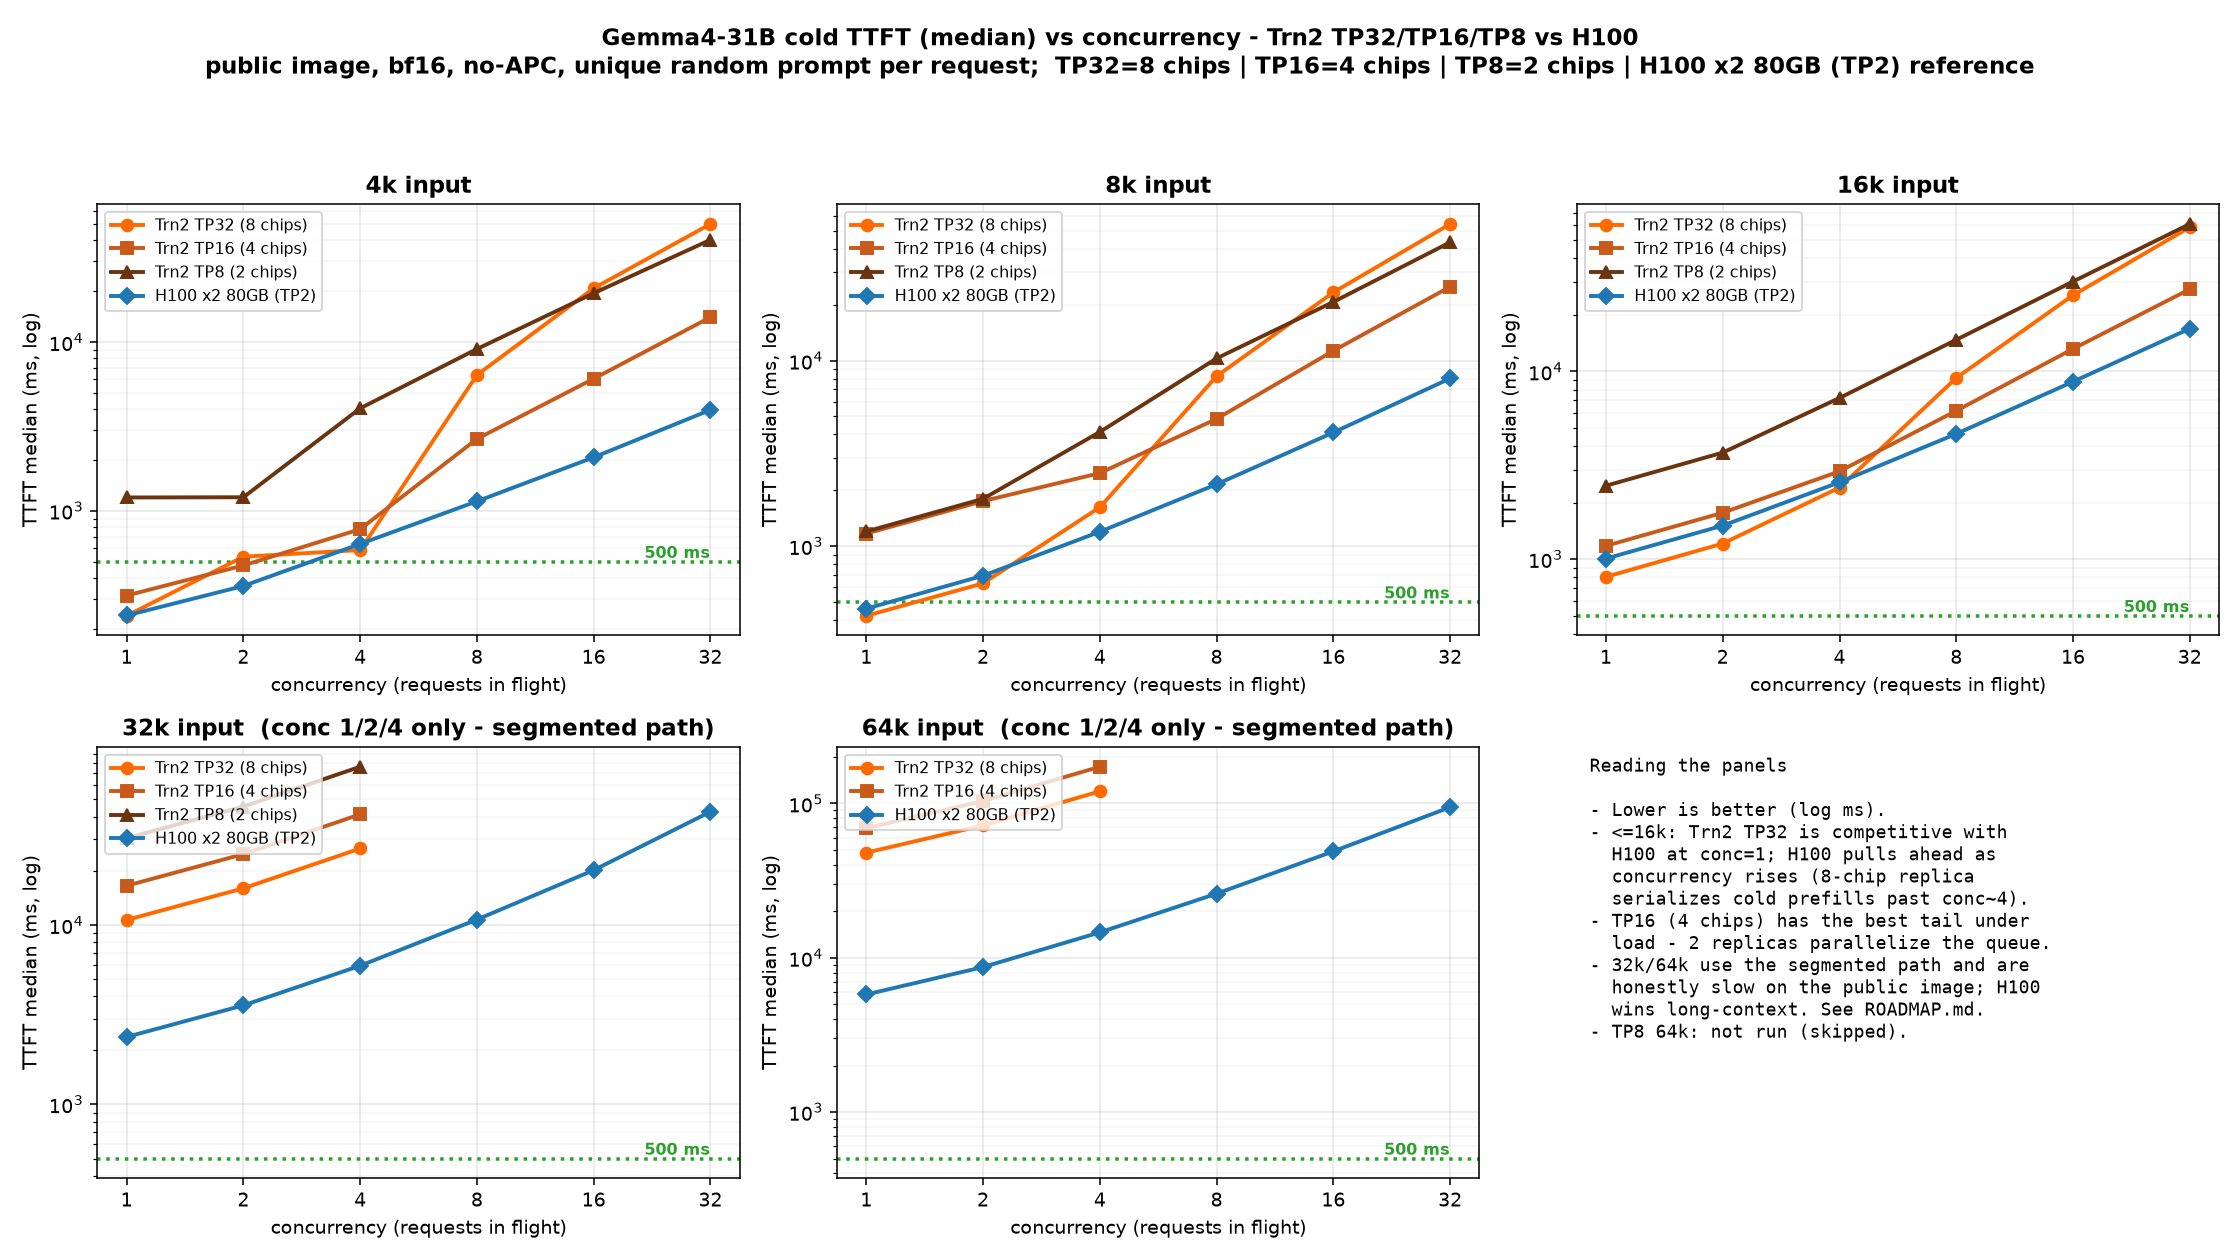
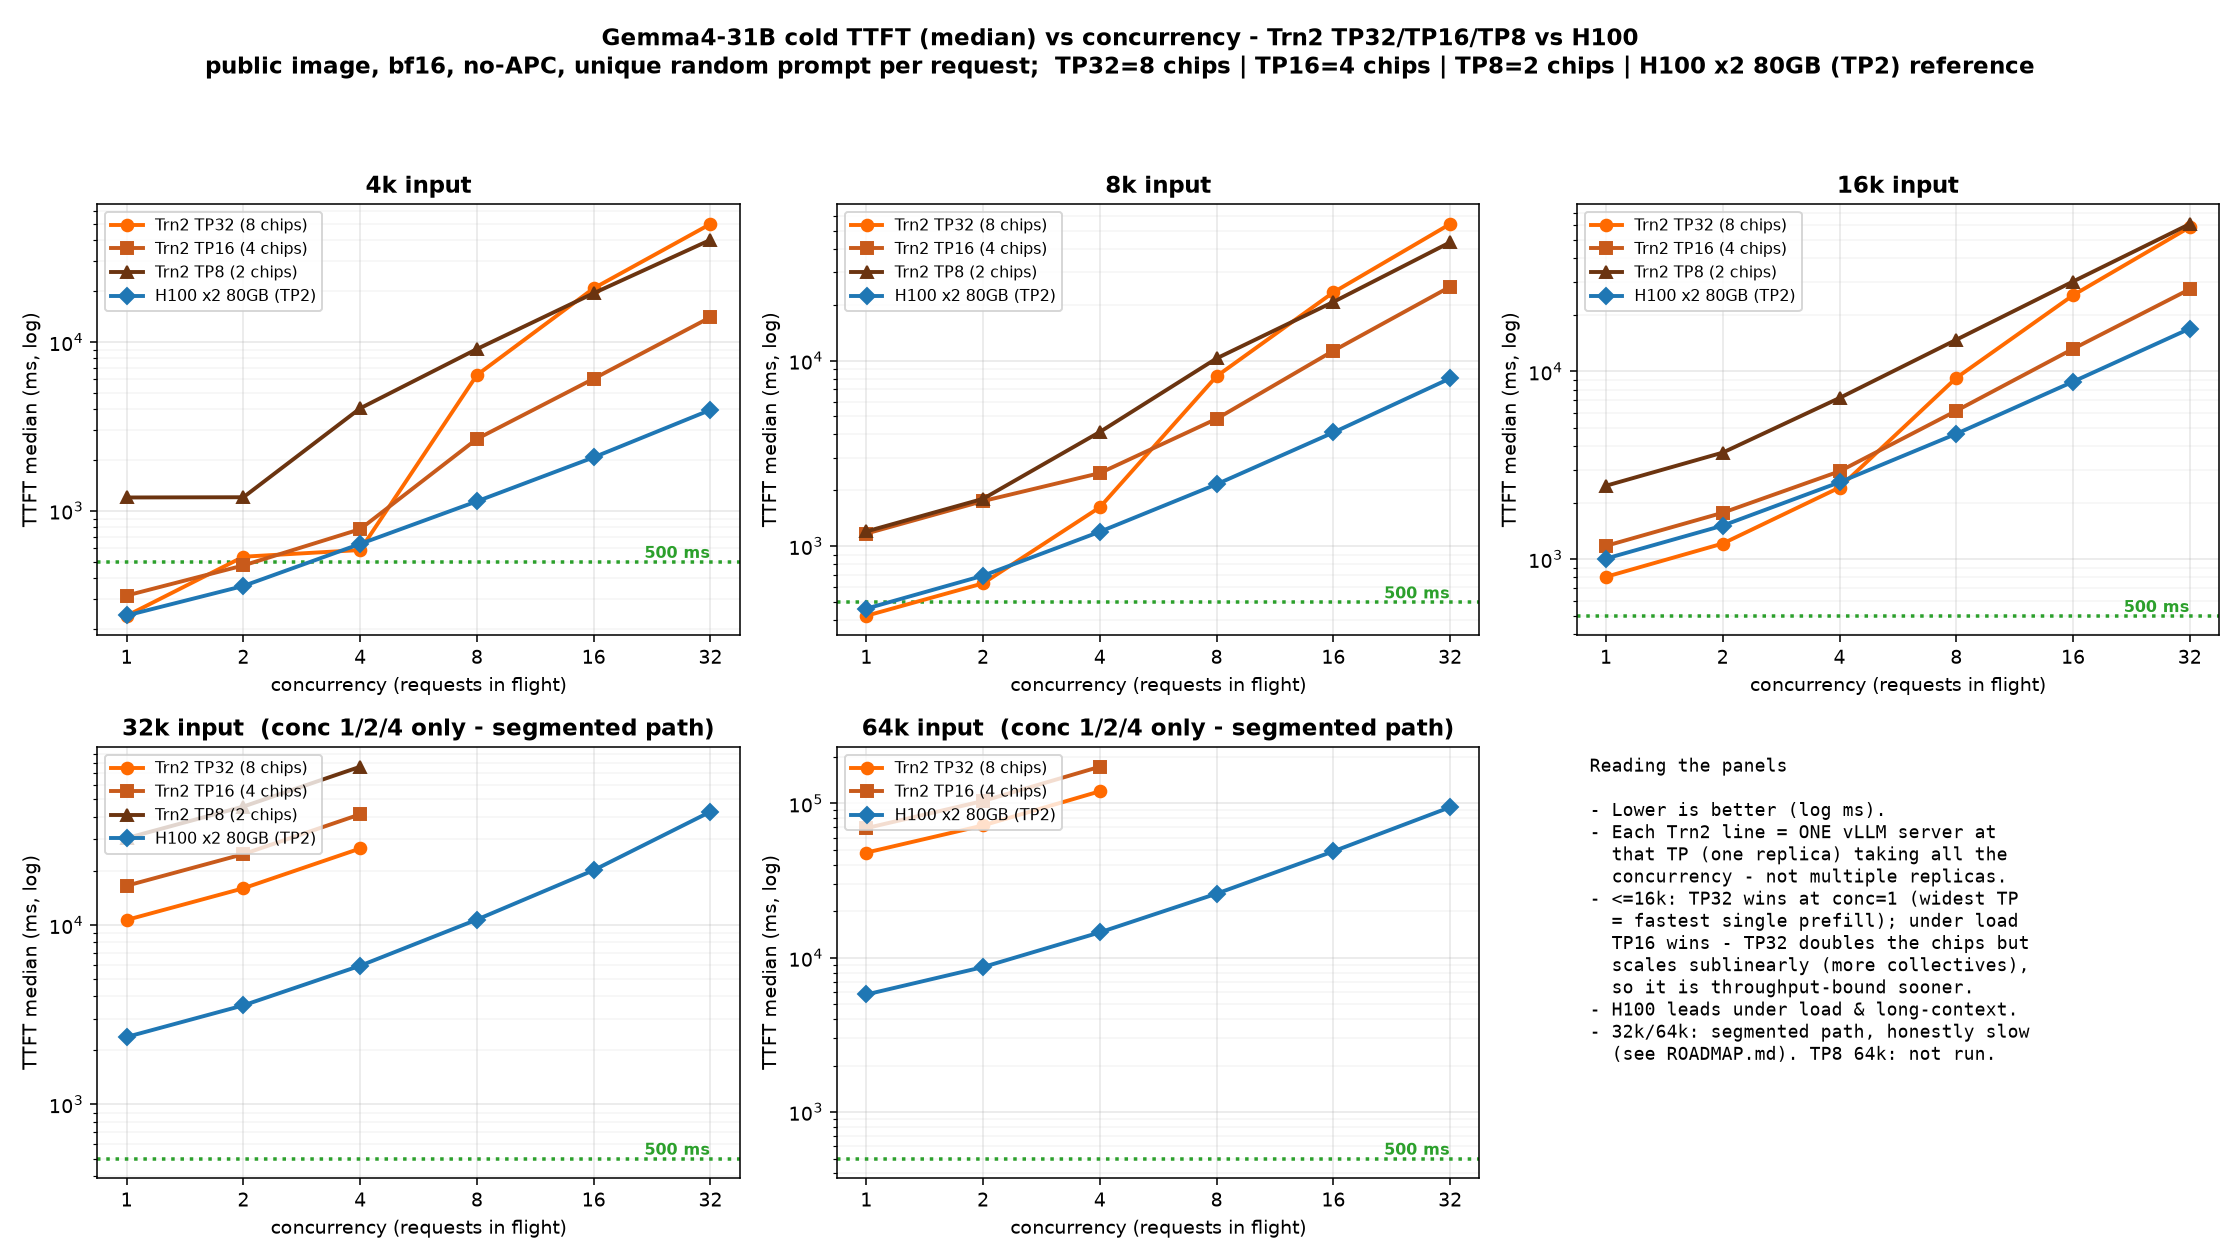
gemma4-31b/Public_Final: correct TP16-vs-TP32 explanation (single-server sublinear TP scaling, not replica parallelism)
The vs-concurrency chart captions and reading-panel attributed TP16's under-load win to '2 replicas parallelize the queue', but the shipped harness runs a single vllm serve per TP degree with all concurrency hitting one server. Rewrote the median + P99 captions, the 'What fits at each TP' note, and the chart reading-panel to the accurate reason: single server, TP32 wins conc=1 (widest TP = fastest single prefill), TP16 wins under load because TP32 scales sublinearly (more collective communication) and is throughput-bound sooner. Regenerated both PNGs. No measured numbers changed.

Changed region(s): [[0.7188, 0.65, 0.9062, 0.8357]]

diff --git a/gemma4-31b/vllm-neuron-Public_Final/make_perf_chart_tp.py b/gemma4-31b/vllm-neuron-Public_Final/make_perf_chart_tp.py
@@ -118,16 +118,17 @@ def make_sweep(data, metric, fname, h100_is_median):
     axf[5].annotate(
         "Reading the panels\n\n"
         "- Lower is better (log ms).\n"
-        "- <=16k: Trn2 TP32 is competitive with\n"
-        "  H100 at conc=1; H100 pulls ahead as\n"
-        "  concurrency rises (8-chip replica\n"
-        "  serializes cold prefills past conc~4).\n"
-        "- TP16 (4 chips) has the best tail under\n"
-        "  load - 2 replicas parallelize the queue.\n"
-        "- 32k/64k use the segmented path and are\n"
-        "  honestly slow on the public image; H100\n"
-        "  wins long-context. See ROADMAP.md.\n"
-        "- TP8 64k: not run (skipped).",
+        "- Each Trn2 line = ONE vLLM server at\n"
+        "  that TP (one replica) taking all the\n"
+        "  concurrency - not multiple replicas.\n"
+        "- <=16k: TP32 wins at conc=1 (widest TP\n"
+        "  = fastest single prefill); under load\n"
+        "  TP16 wins - TP32 doubles the chips but\n"
+        "  scales sublinearly (more collectives),\n"
+        "  so it is throughput-bound sooner.\n"
+        "- H100 leads under load & long-context.\n"
+        "- 32k/64k: segmented path, honestly slow\n"
+        "  (see ROADMAP.md). TP8 64k: not run.",
         (0.02, 0.98), xycoords="axes fraction", va="top", ha="left",
         fontsize=9.5, family="monospace")
     fig.tight_layout(rect=[0, 0, 1, 0.92 if h100_is_median else 0.94])

diff --git a/gemma4-31b/vllm-neuron-Public_Final/README.md b/gemma4-31b/vllm-neuron-Public_Final/README.md
@@ -24,8 +24,11 @@ served from cache). A custom **NKI prefill kernel** cuts ≤16k TTFT by up to **
 *Cold **P99** TTFT vs concurrency — **one panel per input size (4k / 8k / 16k / 32k / 64k)**, Trn2 **TP32
 (8 chips) / TP16 (4 chips) / TP8 (2 chips)** vs the **H100 ×2 80GB (TP2)** reference (H100 line is its
 **median**, shown dashed — P99 was not captured for H100). **Key insight: TP16 out-scales TP32 under load** —
-past conc≈8 the 4-chip config's tail is far lower (4k conc32: TP16 ≈ 30 s vs TP32 ≈ 113 s), because 4-chip
-replicas parallelize the queue. Use TP32 for lowest single-request latency, TP16/TP8 for throughput/density.
+past conc≈8 the 4-chip config's tail is far lower (4k conc32: TP16 ≈ 30 s vs TP32 ≈ 113 s). Each Trn2 line is a
+**single vLLM server** (one replica) taking all the concurrency, so this is **not** replica parallelism: TP32
+uses 2× the chips of TP16 but scales **sublinearly** (more all-reduce/collective communication per step), so
+under load it becomes throughput-bound and its tail balloons, while the leaner TP16 sustains higher throughput.
+Use TP32 for lowest single-request latency, TP16 for the best tail under load.
 P99 is tail latency from a modest sample count per cell — indicative of behavior under load, not an SLA
 guarantee.*
 
@@ -39,9 +42,11 @@ H100 line is median (P99 not captured this run).*
 ![median TTFT vs concurrency — Trn2 TP32/16/8 vs H100, all input sizes](assets/ttft_tp_vs_h100_conc_med.png)
 *Cold **median** TTFT vs concurrency — **one panel per input size (4k / 8k / 16k / 32k / 64k)**, one colored
 line per config: Trn2 **TP32 (8 chips) / TP16 (4 chips) / TP8 (2 chips)** vs **H100 ×2 80GB (TP2)**. Log–log so
-the sub-second short-context and the tens-of-seconds long-context points are both readable. **≤16k:** Trn2 TP32
-tracks H100 at conc=1, but the 8-chip replica serializes cold prefills past conc≈4 so H100 pulls ahead under
-load, while **TP16 holds the best tail** (2 replicas parallelize the queue). **32k/64k:** Trn2 ran conc 1/2/4
+the sub-second short-context and the tens-of-seconds long-context points are both readable. Each Trn2 line is a
+**single vLLM server** at that TP (one replica) taking all the concurrency. **≤16k:** Trn2 TP32 wins at conc=1
+(widest tensor-parallelism finishes one prefill fastest), but under load **TP16 pulls ahead** — TP32 uses 2× the
+chips yet scales sublinearly (more collective communication over more ranks), so it is throughput-bound sooner
+and its TTFT climbs faster; H100 leads under load. **32k/64k:** Trn2 ran conc 1/2/4
 only (segmented path) and is honestly slower than H100 here — see [long-context](#long-context-3264k--honest).
 TP8 64k not run. (H100 = quarter-box TP2 reference, prior session; full-box comparison would differ.)*
 
@@ -146,8 +151,9 @@ Results land in `results_<timestamp>/` (per-size JSON + `summary.csv`). One serv
 | **TP16** | ✅ | ✅ | ✅ | ✅ | ✅ |
 | **TP8** | ✅ | ✅ | ✅ | ✅ | (not run) |
 
-TP32 = 8 chips (whole box, lowest latency). TP16 = 4 chips (2 replicas/box, ~2× throughput, best tail under
-load). TP8 = 2 chips (4 replicas/box, highest single-request latency but fit up to 32k on public).
+TP32 = 8 chips (whole box, lowest single-request latency). TP16 = 4 chips — **best sustained throughput / tail
+under load in these single-server runs** (and in production you can also fit 2 TP16 replicas per box for ~2×
+aggregate throughput). TP8 = 2 chips (4 replicas/box; highest single-request latency but fit up to 32k on public).
 
 ## Long context (32k/64k) — honest
 
